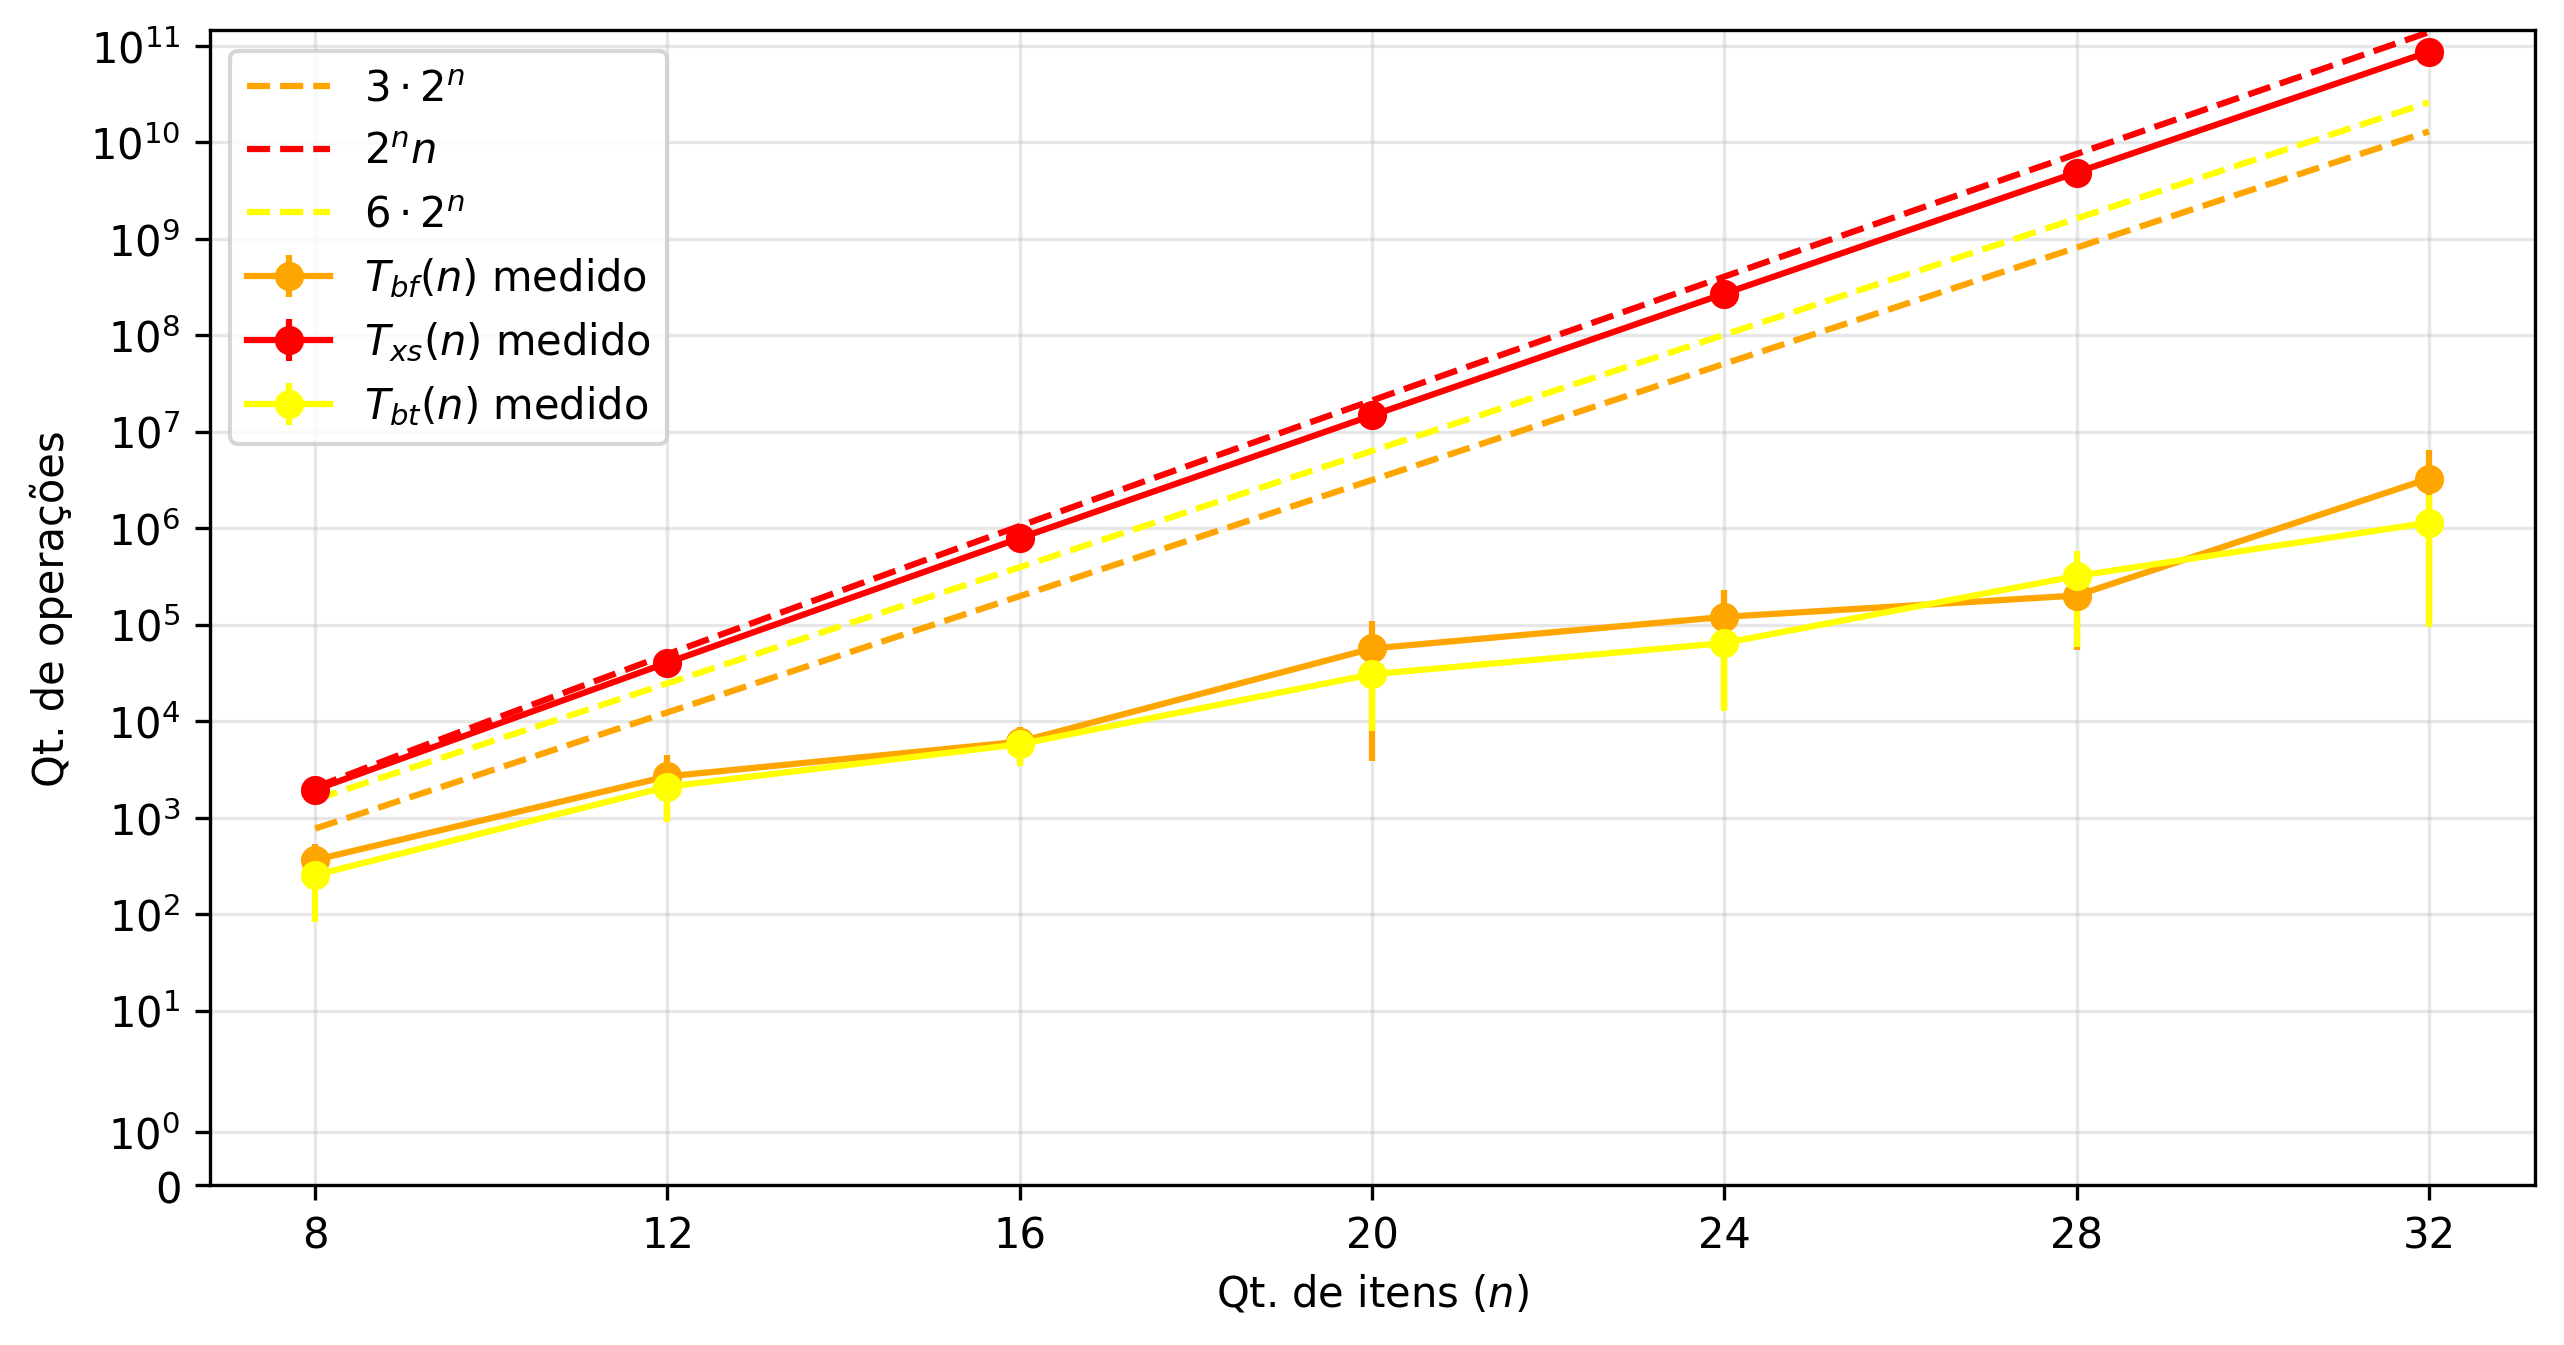
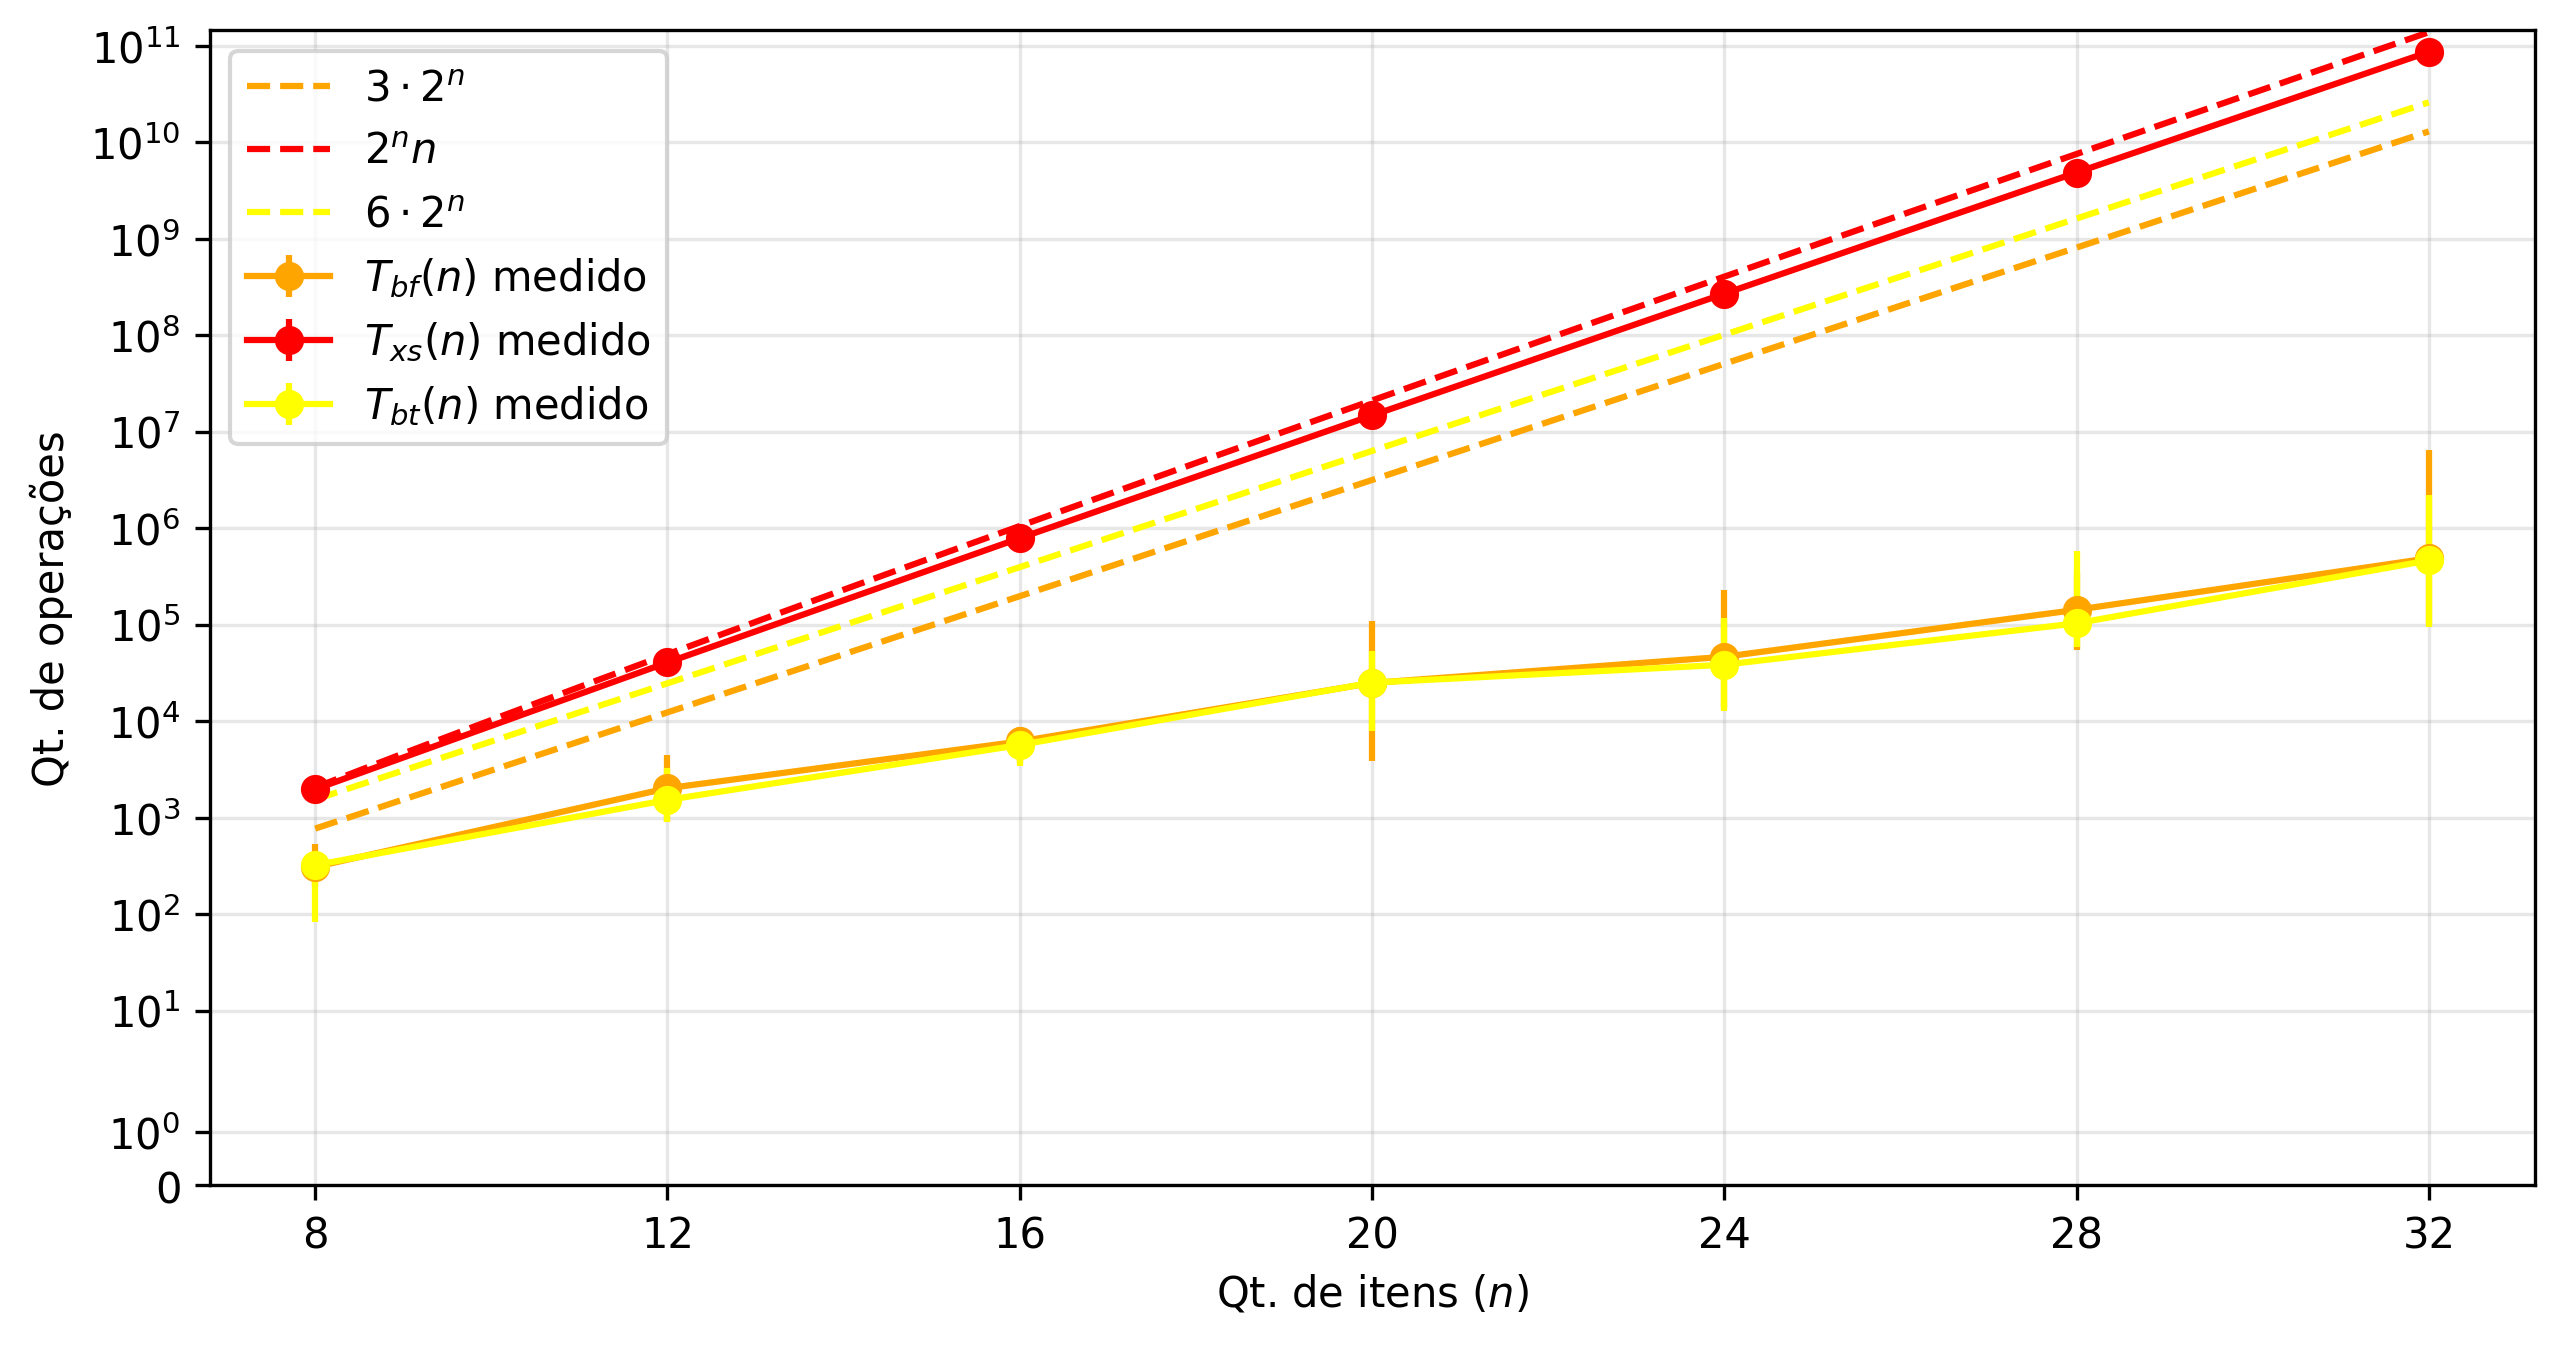
Updated outputs

Changed region(s): [[0.0936, 0.3435, 0.9672, 0.6558]]

diff --git a/script/plot.py b/script/plot.py
@@ -42,11 +42,13 @@ def plot_bf_group(df: pd.DataFrame, out_fp: str):
         df_p = df[df.paradigm == p]
         df_p = df_p.groupby("n_items")["op"].agg(["min", "median", "max"])
         x = df_p.index
-        yerr = (df_p["max"] - df_p["min"]) / 2
-        y = df_p["min"] + yerr
+        yerr = df_p[["max", "min"]].copy()
+        yerr["max"] -= df_p["median"]
+        yerr["min"] -= df_p["median"]
+        y = df_p["median"]
         x_ref = np.linspace(x.min(), x.max(), x.max() - x.min())
         plt.plot(x_ref, bounds[p](x_ref, 0), color=color, label=functions[p], linestyle='--')
-        plt.errorbar(x, y, yerr=yerr, label=labels[p], color=color, marker="o")
+        plt.errorbar(x, y, yerr=(np.abs(yerr["min"]), yerr["max"]), label=labels[p], color=color, marker="o")
     plt.xticks(x)
     plt.ylim(bottom=0)
     plt.yscale("symlog")
@@ -69,7 +71,7 @@ def plot_dp_group(df: pd.DataFrame, out_fp: str):
         y = df_["op"]
         plt.plot(x, y, color=color, label=f"$T_{{dpb}}(n,{w})$ medido", marker="o")
     x_ref = np.linspace(x.min(), x.max(), x.max() - x.min())
-    plt.plot(x_ref, bounds["dpb"](x_ref, w), color=color, label=f"$3nw, w={x.max()}$", linestyle='--')
+    plt.plot(x_ref, bounds["dpb"](x_ref, w), color=color, label=f"$3nW, W={x.max()}$", linestyle='--')
     plt.xticks(x)
     plt.xlabel("Qt. de itens ($n$)")
     plt.ylabel("Qt. de operações")
@@ -89,7 +91,7 @@ def plot_dp_group(df: pd.DataFrame, out_fp: str):
         y = df_["op"]
         plt.plot(x, y, color=color, label=f"$T_{{dpt}}(n,{w})$ medido", marker="o")
     x_ref = np.linspace(x.min(), x.max(), x.max() - x.min())
-    plt.plot(x_ref, bounds["dpt"](x_ref, w), color=color, label=f"$3nw, w={x.max()}$", linestyle='--')
+    plt.plot(x_ref, bounds["dpt"](x_ref, w), color=color, label=f"$3nW, W={x.max()}$", linestyle='--')
     plt.xticks(x)
     plt.xlabel("Qt. de itens ($n$)")
     plt.ylabel("Qt. de operações")
@@ -106,13 +108,14 @@ def plot_gd(df: pd.DataFrame, out_fp: str):
     for p, color in zip(ps, colors):
         df_p = df[df.paradigm == p]
         df_p = df_p.groupby("n_items")["op"].agg(["min", "median", "max"])
-        print(df_p)
         x = df_p.index
-        yerr = (df_p["max"] - df_p["min"]) / 2
-        y = df_p["min"] + yerr
+        yerr = df_p[["max", "min"]].copy()
+        yerr["max"] -= df_p["median"]
+        yerr["min"] -= df_p["median"]
+        y = df_p["median"]
         x_ref = np.linspace(x.min(), x.max(), x.max() - x.min())
         plt.plot(x_ref, bounds[p](x_ref, 0), color=color, label=functions[p], linestyle='--')
-        plt.errorbar(x, y, yerr=yerr, label=labels[p], color=color, marker="o")
+        plt.errorbar(x, y, yerr=(np.abs(yerr["min"]), yerr["max"]), label=labels[p], color=color, marker="o")
     plt.xticks(x)
     plt.xlabel("Qt. de itens ($n$)")
     plt.ylabel("Qt. de operações")
